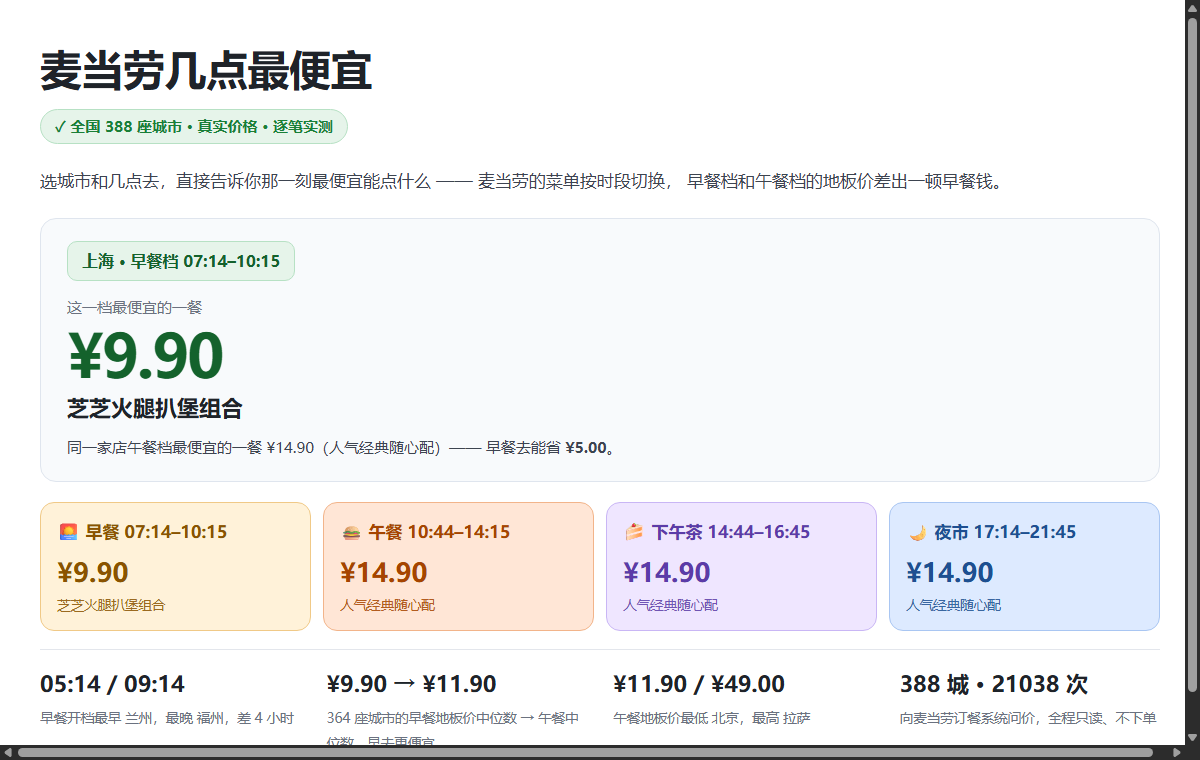
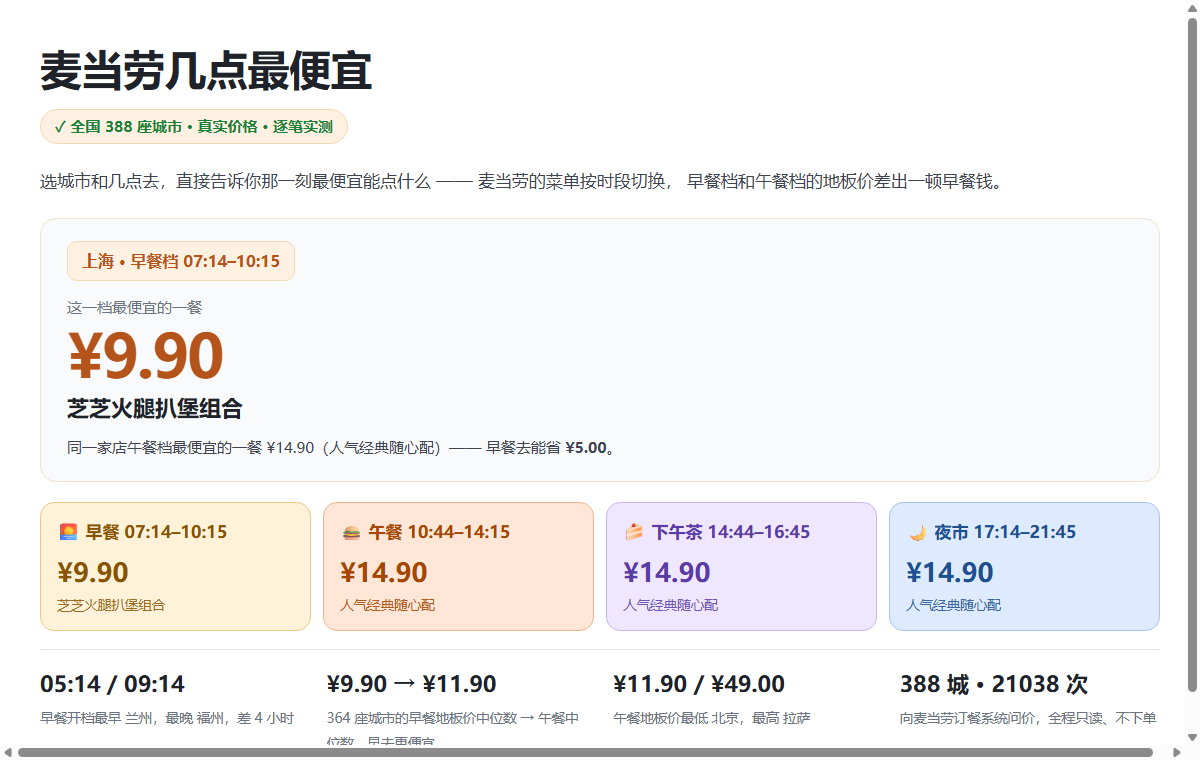
design: 采用「暖奶油」终版配色
- hero 改奶油白渐变+焦糖橙红文字, 钩子/勋章同步换色
- 主题强调色 #C2410C, 价格 hero 奶油金底 + #B4531A 大字
- 深色模式对应「暖黑金」: 深棕 hero + 琥珀字
- 首图卡片与 README 实拍图同步换色; 整页实拍(折叠区全展开)

diff --git a/dist/report.html b/dist/report.html
@@ -5,31 +5,31 @@
 <style>
 *{box-sizing:border-box}
 html{-webkit-text-size-adjust:100%}
-body{margin:0;background:#f6f7f9;color:#1f2329;
+body{margin:0;background:#FBF7F2;color:#1f2329;
  font-family:"PingFang SC","Microsoft YaHei","Hiragino Sans GB","Source Han Sans SC",
    "Noto Sans CJK SC",system-ui,-apple-system,sans-serif;
  font-size:16px;line-height:1.7;padding:20px 14px 40px;
  word-break:break-word;overflow-wrap:break-word}
 .wrap{max-width:820px;margin:0 auto}
 
-/* —— 头部: 黄金3秒钩子 —— */
-.hero{background:linear-gradient(135deg,#E1121F 0%,#C0101A 55%,#A50F18 100%);
- color:#fff;border-radius:18px;padding:26px 22px 22px;margin:0 0 16px;
- box-shadow:0 2px 4px rgba(120,10,16,.18),0 14px 34px rgba(120,10,16,.22)}
-.hero .hook{display:inline-block;background:rgba(255,255,255,.16);border:1px solid rgba(255,255,255,.28);
- color:#FFD75E;font-size:13.5px;font-weight:800;letter-spacing:.4px;padding:5px 12px;
+/* —— 头部: 黄金3秒钩子(暖奶油) —— */
+.hero{background:linear-gradient(135deg,#FFFDF9 0%,#FDF1E3 100%);
+ color:#2B1B12;border-radius:18px;padding:26px 22px 22px;margin:0 0 16px;
+ box-shadow:0 1px 2px rgba(120,80,20,.06),0 10px 26px rgba(120,80,20,.09)}
+.hero .hook{display:inline-block;background:#FFF1E2;border:1px solid #F2D9B6;
+ color:#B4531A;font-size:13.5px;font-weight:800;letter-spacing:.4px;padding:5px 12px;
  border-radius:20px;margin:0 0 12px}
-.hero h1{font-size:34px;line-height:1.25;margin:0 0 10px;color:#fff;letter-spacing:-.4px}
-.hero .hsub{font-size:16px;color:rgba(255,255,255,.92);margin:0 0 16px;line-height:1.65}
-.hero .hsub b{color:#FFD75E}
+.hero h1{font-size:34px;line-height:1.25;margin:0 0 10px;color:#7C1D12;letter-spacing:-.4px}
+.hero .hsub{font-size:16px;color:#5A4638;margin:0 0 16px;line-height:1.65}
+.hero .hsub b{color:#B4531A}
 .hero-stats{display:flex;flex-wrap:wrap;gap:8px}
-.hero-stats .hs{background:rgba(0,0,0,.16);border:1px solid rgba(255,255,255,.2);
- border-radius:10px;padding:7px 12px;font-size:13.5px;color:rgba(255,255,255,.9)}
-.hero-stats .hs b{font-size:17px;color:#FFD75E;font-variant-numeric:tabular-nums;
+.hero-stats .hs{background:#fff;border:1px solid #F0E2CE;
+ border-radius:10px;padding:7px 12px;font-size:13.5px;color:#6B5747}
+.hero-stats .hs b{font-size:17px;color:#C2410C;font-variant-numeric:tabular-nums;
  font-weight:800;margin-right:3px}
 h1{font-size:28px;line-height:1.35;margin:0 0 8px;letter-spacing:-.2px}
 p{margin:0 0 12px}
-a{color:#A50F18}
+a{color:#8C2F0B}
 .lead{font-size:16px;color:#3d4450;margin:0 0 16px}
 .num{font-variant-numeric:tabular-nums;font-feature-settings:"tnum" 1}
 .sub{color:#6b7280;font-size:14px;margin:0}
@@ -49,16 +49,16 @@ select.sel{font:inherit;font-size:16px;padding:9px 12px;border:1px solid #d7dbe3
 .chip{display:inline-block;padding:6px 13px;border:1px solid #d7dbe3;border-radius:20px;
  background:#fff;color:#1f2329;font-size:14.5px;cursor:pointer;line-height:1.5;
  transition:border-color .15s,color .15s,background .15s,transform .15s}
-.chip:hover{border-color:#C4161C;color:#C4161C}
-.chip.on{background:#C4161C;border-color:#C4161C;color:#fff;font-weight:700;transform:scale(1.05)}
+.chip:hover{border-color:#C2410C;color:#C2410C}
+.chip.on{background:#C2410C;border-color:#C2410C;color:#fff;font-weight:700;transform:scale(1.05)}
 .hintline{font-size:13.5px;color:#6b7280;margin:8px 0 0}
 select{font:inherit;font-size:16px;padding:8px 12px;border:1px solid #d7dbe3;border-radius:10px;
  background:#fff;color:#1f2329;max-width:100%;transition:border-color .15s}
-select:focus{border-color:#C4161C;outline:2px solid rgba(196,22,28,.16)}
+select:focus{border-color:#C2410C;outline:2px solid rgba(194,65,12,.14)}
 button.now{font:inherit;font-size:15px;padding:8px 16px;border:1px solid #d7dbe3;
  border-radius:10px;background:#f0f2f5;color:#1f2329;cursor:pointer;
  transition:border-color .15s,color .15s,background .15s}
-button.now:hover{border-color:#C4161C;color:#C4161C;background:#fdeeee}
+button.now:hover{border-color:#C2410C;color:#C2410C;background:#FFF3EA}
 
 /* —— 答案区 —— */
 .state{font-size:15px;font-weight:700;padding:10px 14px;border-radius:10px;margin:0 0 14px}
@@ -66,12 +66,12 @@ button.now:hover{border-color:#C4161C;color:#C4161C;background:#fdeeee}
 .state.gap{background:#fff4ce;color:#8a6100;border:1px solid #f0d999}
 .state.closed{background:#f1f2f5;color:#5b6472;border:1px solid #dfe2e8}
 .big{font-size:14.5px;color:#6b7280;margin:0 0 2px}
-.anshero{background:linear-gradient(135deg,#FFF6DF 0%,#FFFDF6 60%);border:1px solid #F2D77A;
+.anshero{background:linear-gradient(135deg,#FFF8EF 0%,#FFFDFA 70%);border:1px solid #F2D9B6;
  border-radius:14px;padding:14px 16px 12px;margin:2px 0 12px;
- box-shadow:0 1px 2px rgba(180,130,20,.08),0 6px 18px rgba(180,130,20,.10)}
+ box-shadow:0 1px 2px rgba(140,90,20,.07),0 6px 18px rgba(140,90,20,.09)}
 .anshero .ansname{margin-bottom:0}
 .ansprice{font-size:64px;font-weight:800;letter-spacing:-2.5px;line-height:1.05;margin:2px 0 4px;
- color:#C4161C;font-variant-numeric:tabular-nums}
+ color:#B4531A;font-variant-numeric:tabular-nums}
 .pdot{display:inline-block;width:9px;height:9px;border-radius:50%;margin-right:6px;
  vertical-align:middle}
 .ansname{font-size:19px;font-weight:700;margin:0 0 4px}
@@ -88,7 +88,7 @@ button.now:hover{border-color:#C4161C;color:#C4161C;background:#fdeeee}
  transition:width .25s ease-out}
 .cmp .pv{font-variant-numeric:tabular-nums;font-weight:700;white-space:nowrap}
 .cmp .row.cur .nm{color:#1f2329;font-weight:800}
-.cmp .row.cur .pv{color:#C4161C}
+.cmp .row.cur .pv{color:#B4531A}
 .cmp .row:not(.cur){opacity:.62}
 
 /* —— 答案卡切换动画 —— */
@@ -126,25 +126,32 @@ footer{max-width:820px;margin:24px auto 0;color:#8b93a3;font-size:12.5px;
 @media (prefers-color-scheme:dark){
   body{background:#121418;color:#e7eaf0}
   .lead{color:#b9c0cc}
-  a{color:#E37B7B}
+  a{color:#E8936B}
   .sub,.big,.anshint,.more,.hintline,.qlab{color:#9aa3b2}
   .card,.q,details{background:#1b1e24;border-color:#2c313a;box-shadow:none}
   details summary{background:#20242c}
   select.sel,select{background:#22262e;border-color:#3a414c;color:#e7eaf0}
-  select:focus{border-color:#E37B7B;outline-color:rgba(227,123,123,.22)}
+  select:focus{border-color:#E8936B;outline-color:rgba(232,147,107,.22)}
   button.now{background:#262b34;border-color:#3a414c;color:#e7eaf0}
-  button.now:hover{border-color:#E37B7B;color:#E37B7B;background:#262f3d}
+  button.now:hover{border-color:#E8936B;color:#E8936B;background:#262f3d}
   .chip{background:#22262e;border-color:#3a414c;color:#e7eaf0}
-  .chip:hover{border-color:#E37B7B;color:#E37B7B}
-  .chip.on{background:#C4161C;border-color:#C4161C;color:#fff}
+  .chip:hover{border-color:#E8936B;color:#E8936B}
+  .chip.on{background:#C2410C;border-color:#C2410C;color:#fff}
   .state.ok{background:#123322;color:#7fd6a4;border-color:#1f5a3a}
   .state.gap{background:#3a2f10;color:#f0d48a;border-color:#6b5518}
   .state.closed{background:#22262e;color:#9aa3b2;border-color:#3a414c}
-  .anshero{background:linear-gradient(135deg,#2A1E08,#1F1A0C);border-color:#5e4a15;box-shadow:none}
-  .ansprice{color:#FFC72C}
-  .cmp .row.cur .pv{color:#FFC72C}
+  .anshero{background:linear-gradient(135deg,#241A0D,#1C1409);border-color:#5E4318;box-shadow:none}
+  .anshero .big{color:#B9A68E}.anshero .ansname{color:#F0E7DB}
+  .ansprice{color:#F5B45B}
+  .cmp .row.cur .pv{color:#F5B45B}
   .cmp .row.cur .nm{color:#e7eaf0}
-  .hero{background:linear-gradient(135deg,#8E0C14,#6C0A11);box-shadow:none}
+  .hero{background:linear-gradient(135deg,#2E1E0F,#1E1409);box-shadow:none}
+  .hero h1{color:#F7E3C9}
+  .hero .hsub{color:#CBB79C}
+  .hero .hsub b{color:#F5B45B}
+  .hero .hook{background:#3A2712;border-color:#6B4A1F;color:#F5B45B}
+  .hero-stats .hs{background:#2A1D0F;border-color:#4A3418;color:#CBB79C}
+  .hero-stats .hs b{color:#F5B45B}
   .ansline{background:#1a2333;border-color:#2c3d5c}
   ul.can{border-top-color:#2c313a}
   ul.can li{border-bottom-color:#2c313a}

diff --git a/dist/card.html b/dist/card.html
@@ -2,20 +2,20 @@
 <style>
 *{box-sizing:border-box}
 html,body{margin:0;padding:0}
-body{background:#f6f7f9;color:#1f2329;width:1200px;
+body{background:#FBF7F2;color:#1f2329;width:1200px;
  font-family:"PingFang SC","Microsoft YaHei","Hiragino Sans GB","Source Han Sans SC",
   "Noto Sans CJK SC",system-ui,-apple-system,sans-serif;
  font-size:16px;line-height:1.65}
 .card{width:1200px;background:#fff;padding:34px 40px 30px}
 h1{font-size:42px;margin:0 0 6px;letter-spacing:-.5px}
 .tag{display:inline-block;font-size:15px;font-weight:700;color:#1a7f37;
- background:#e6f4ea;border:1px solid #b7e1c4;border-radius:20px;padding:4px 14px;margin:0 0 22px}
+ background:#FFF1E2;border:1px solid #F2D9B6;border-radius:20px;padding:4px 14px;margin:0 0 22px}
 .lead{font-size:17px;color:#3d4450;margin:0 0 24px}
-.ans{background:#f8fafc;border:1px solid #dfe5ee;border-radius:16px;padding:22px 26px;margin:0 0 20px}
-.state{display:inline-block;font-size:16px;font-weight:700;color:#14622c;background:#e6f4ea;
- border:1px solid #b7e1c4;border-radius:10px;padding:6px 14px;margin:0 0 14px}
+.ans{background:#f8fafc;border:1px solid #F0E2CE;border-radius:16px;padding:22px 26px;margin:0 0 20px}
+.state{display:inline-block;font-size:16px;font-weight:700;color:#B4531A;background:#FFF1E2;
+ border:1px solid #F2D9B6;border-radius:10px;padding:6px 14px;margin:0 0 14px}
 .big{font-size:15px;color:#6b7280;margin:0 0 2px}
-.price{font-size:60px;font-weight:800;letter-spacing:-2px;line-height:1.1;margin:0;color:#14622c}
+.price{font-size:60px;font-weight:800;letter-spacing:-2px;line-height:1.1;margin:0;color:#B4531A}
 .name{font-size:22px;font-weight:700;margin:2px 0 8px}
 .note{font-size:15px;color:#3d4450;margin:8px 0 0}
 .row{display:flex;gap:12px;margin:0 0 18px}

diff --git a/src/render_report.py b/src/render_report.py
@@ -35,31 +35,31 @@ PERIOD_ICON = {"早餐": "🌅", "午餐": "🍔", "下午茶": "🍰", "夜市"
 CSS = """
 *{box-sizing:border-box}
 html{-webkit-text-size-adjust:100%}
-body{margin:0;background:#f6f7f9;color:#1f2329;
+body{margin:0;background:#FBF7F2;color:#1f2329;
  font-family:"PingFang SC","Microsoft YaHei","Hiragino Sans GB","Source Han Sans SC",
    "Noto Sans CJK SC",system-ui,-apple-system,sans-serif;
  font-size:16px;line-height:1.7;padding:20px 14px 40px;
  word-break:break-word;overflow-wrap:break-word}
 .wrap{max-width:820px;margin:0 auto}
 
-/* —— 头部: 黄金3秒钩子 —— */
-.hero{background:linear-gradient(135deg,#E1121F 0%,#C0101A 55%,#A50F18 100%);
- color:#fff;border-radius:18px;padding:26px 22px 22px;margin:0 0 16px;
- box-shadow:0 2px 4px rgba(120,10,16,.18),0 14px 34px rgba(120,10,16,.22)}
-.hero .hook{display:inline-block;background:rgba(255,255,255,.16);border:1px solid rgba(255,255,255,.28);
- color:#FFD75E;font-size:13.5px;font-weight:800;letter-spacing:.4px;padding:5px 12px;
+/* —— 头部: 黄金3秒钩子(暖奶油) —— */
+.hero{background:linear-gradient(135deg,#FFFDF9 0%,#FDF1E3 100%);
+ color:#2B1B12;border-radius:18px;padding:26px 22px 22px;margin:0 0 16px;
+ box-shadow:0 1px 2px rgba(120,80,20,.06),0 10px 26px rgba(120,80,20,.09)}
+.hero .hook{display:inline-block;background:#FFF1E2;border:1px solid #F2D9B6;
+ color:#B4531A;font-size:13.5px;font-weight:800;letter-spacing:.4px;padding:5px 12px;
  border-radius:20px;margin:0 0 12px}
-.hero h1{font-size:34px;line-height:1.25;margin:0 0 10px;color:#fff;letter-spacing:-.4px}
-.hero .hsub{font-size:16px;color:rgba(255,255,255,.92);margin:0 0 16px;line-height:1.65}
-.hero .hsub b{color:#FFD75E}
+.hero h1{font-size:34px;line-height:1.25;margin:0 0 10px;color:#7C1D12;letter-spacing:-.4px}
+.hero .hsub{font-size:16px;color:#5A4638;margin:0 0 16px;line-height:1.65}
+.hero .hsub b{color:#B4531A}
 .hero-stats{display:flex;flex-wrap:wrap;gap:8px}
-.hero-stats .hs{background:rgba(0,0,0,.16);border:1px solid rgba(255,255,255,.2);
- border-radius:10px;padding:7px 12px;font-size:13.5px;color:rgba(255,255,255,.9)}
-.hero-stats .hs b{font-size:17px;color:#FFD75E;font-variant-numeric:tabular-nums;
+.hero-stats .hs{background:#fff;border:1px solid #F0E2CE;
+ border-radius:10px;padding:7px 12px;font-size:13.5px;color:#6B5747}
+.hero-stats .hs b{font-size:17px;color:#C2410C;font-variant-numeric:tabular-nums;
  font-weight:800;margin-right:3px}
 h1{font-size:28px;line-height:1.35;margin:0 0 8px;letter-spacing:-.2px}
 p{margin:0 0 12px}
-a{color:#A50F18}
+a{color:#8C2F0B}
 .lead{font-size:16px;color:#3d4450;margin:0 0 16px}
 .num{font-variant-numeric:tabular-nums;font-feature-settings:"tnum" 1}
 .sub{color:#6b7280;font-size:14px;margin:0}
@@ -79,16 +79,16 @@ select.sel{font:inherit;font-size:16px;padding:9px 12px;border:1px solid #d7dbe3
 .chip{display:inline-block;padding:6px 13px;border:1px solid #d7dbe3;border-radius:20px;
  background:#fff;color:#1f2329;font-size:14.5px;cursor:pointer;line-height:1.5;
  transition:border-color .15s,color .15s,background .15s,transform .15s}
-.chip:hover{border-color:#C4161C;color:#C4161C}
-.chip.on{background:#C4161C;border-color:#C4161C;color:#fff;font-weight:700;transform:scale(1.05)}
+.chip:hover{border-color:#C2410C;color:#C2410C}
+.chip.on{background:#C2410C;border-color:#C2410C;color:#fff;font-weight:700;transform:scale(1.05)}
 .hintline{font-size:13.5px;color:#6b7280;margin:8px 0 0}
 select{font:inherit;font-size:16px;padding:8px 12px;border:1px solid #d7dbe3;border-radius:10px;
  background:#fff;color:#1f2329;max-width:100%;transition:border-color .15s}
-select:focus{border-color:#C4161C;outline:2px solid rgba(196,22,28,.16)}
+select:focus{border-color:#C2410C;outline:2px solid rgba(194,65,12,.14)}
 button.now{font:inherit;font-size:15px;padding:8px 16px;border:1px solid #d7dbe3;
  border-radius:10px;background:#f0f2f5;color:#1f2329;cursor:pointer;
  transition:border-color .15s,color .15s,background .15s}
-button.now:hover{border-color:#C4161C;color:#C4161C;background:#fdeeee}
+button.now:hover{border-color:#C2410C;color:#C2410C;background:#FFF3EA}
 
 /* —— 答案区 —— */
 .state{font-size:15px;font-weight:700;padding:10px 14px;border-radius:10px;margin:0 0 14px}
@@ -96,12 +96,12 @@ button.now:hover{border-color:#C4161C;color:#C4161C;background:#fdeeee}
 .state.gap{background:#fff4ce;color:#8a6100;border:1px solid #f0d999}
 .state.closed{background:#f1f2f5;color:#5b6472;border:1px solid #dfe2e8}
 .big{font-size:14.5px;color:#6b7280;margin:0 0 2px}
-.anshero{background:linear-gradient(135deg,#FFF6DF 0%,#FFFDF6 60%);border:1px solid #F2D77A;
+.anshero{background:linear-gradient(135deg,#FFF8EF 0%,#FFFDFA 70%);border:1px solid #F2D9B6;
  border-radius:14px;padding:14px 16px 12px;margin:2px 0 12px;
- box-shadow:0 1px 2px rgba(180,130,20,.08),0 6px 18px rgba(180,130,20,.10)}
+ box-shadow:0 1px 2px rgba(140,90,20,.07),0 6px 18px rgba(140,90,20,.09)}
 .anshero .ansname{margin-bottom:0}
 .ansprice{font-size:64px;font-weight:800;letter-spacing:-2.5px;line-height:1.05;margin:2px 0 4px;
- color:#C4161C;font-variant-numeric:tabular-nums}
+ color:#B4531A;font-variant-numeric:tabular-nums}
 .pdot{display:inline-block;width:9px;height:9px;border-radius:50%;margin-right:6px;
  vertical-align:middle}
 .ansname{font-size:19px;font-weight:700;margin:0 0 4px}
@@ -118,7 +118,7 @@ button.now:hover{border-color:#C4161C;color:#C4161C;background:#fdeeee}
  transition:width .25s ease-out}
 .cmp .pv{font-variant-numeric:tabular-nums;font-weight:700;white-space:nowrap}
 .cmp .row.cur .nm{color:#1f2329;font-weight:800}
-.cmp .row.cur .pv{color:#C4161C}
+.cmp .row.cur .pv{color:#B4531A}
 .cmp .row:not(.cur){opacity:.62}
 
 /* —— 答案卡切换动画 —— */
@@ -156,25 +156,32 @@ footer{max-width:820px;margin:24px auto 0;color:#8b93a3;font-size:12.5px;
 @media (prefers-color-scheme:dark){
   body{background:#121418;color:#e7eaf0}
   .lead{color:#b9c0cc}
-  a{color:#E37B7B}
+  a{color:#E8936B}
   .sub,.big,.anshint,.more,.hintline,.qlab{color:#9aa3b2}
   .card,.q,details{background:#1b1e24;border-color:#2c313a;box-shadow:none}
   details summary{background:#20242c}
   select.sel,select{background:#22262e;border-color:#3a414c;color:#e7eaf0}
-  select:focus{border-color:#E37B7B;outline-color:rgba(227,123,123,.22)}
+  select:focus{border-color:#E8936B;outline-color:rgba(232,147,107,.22)}
   button.now{background:#262b34;border-color:#3a414c;color:#e7eaf0}
-  button.now:hover{border-color:#E37B7B;color:#E37B7B;background:#262f3d}
+  button.now:hover{border-color:#E8936B;color:#E8936B;background:#262f3d}
   .chip{background:#22262e;border-color:#3a414c;color:#e7eaf0}
-  .chip:hover{border-color:#E37B7B;color:#E37B7B}
-  .chip.on{background:#C4161C;border-color:#C4161C;color:#fff}
+  .chip:hover{border-color:#E8936B;color:#E8936B}
+  .chip.on{background:#C2410C;border-color:#C2410C;color:#fff}
   .state.ok{background:#123322;color:#7fd6a4;border-color:#1f5a3a}
   .state.gap{background:#3a2f10;color:#f0d48a;border-color:#6b5518}
   .state.closed{background:#22262e;color:#9aa3b2;border-color:#3a414c}
-  .anshero{background:linear-gradient(135deg,#2A1E08,#1F1A0C);border-color:#5e4a15;box-shadow:none}
-  .ansprice{color:#FFC72C}
-  .cmp .row.cur .pv{color:#FFC72C}
+  .anshero{background:linear-gradient(135deg,#241A0D,#1C1409);border-color:#5E4318;box-shadow:none}
+  .anshero .big{color:#B9A68E}.anshero .ansname{color:#F0E7DB}
+  .ansprice{color:#F5B45B}
+  .cmp .row.cur .pv{color:#F5B45B}
   .cmp .row.cur .nm{color:#e7eaf0}
-  .hero{background:linear-gradient(135deg,#8E0C14,#6C0A11);box-shadow:none}
+  .hero{background:linear-gradient(135deg,#2E1E0F,#1E1409);box-shadow:none}
+  .hero h1{color:#F7E3C9}
+  .hero .hsub{color:#CBB79C}
+  .hero .hsub b{color:#F5B45B}
+  .hero .hook{background:#3A2712;border-color:#6B4A1F;color:#F5B45B}
+  .hero-stats .hs{background:#2A1D0F;border-color:#4A3418;color:#CBB79C}
+  .hero-stats .hs b{color:#F5B45B}
   .ansline{background:#1a2333;border-color:#2c3d5c}
   ul.can{border-top-color:#2c313a}
   ul.can li{border-bottom-color:#2c313a}

diff --git a/src/render_card.py b/src/render_card.py
@@ -28,20 +28,20 @@ SAMPLE_CITY = "上海"
 CSS = """
 *{box-sizing:border-box}
 html,body{margin:0;padding:0}
-body{background:#f6f7f9;color:#1f2329;width:1200px;
+body{background:#FBF7F2;color:#1f2329;width:1200px;
  font-family:"PingFang SC","Microsoft YaHei","Hiragino Sans GB","Source Han Sans SC",
   "Noto Sans CJK SC",system-ui,-apple-system,sans-serif;
  font-size:16px;line-height:1.65}
 .card{width:1200px;background:#fff;padding:34px 40px 30px}
 h1{font-size:42px;margin:0 0 6px;letter-spacing:-.5px}
 .tag{display:inline-block;font-size:15px;font-weight:700;color:#1a7f37;
- background:#e6f4ea;border:1px solid #b7e1c4;border-radius:20px;padding:4px 14px;margin:0 0 22px}
+ background:#FFF1E2;border:1px solid #F2D9B6;border-radius:20px;padding:4px 14px;margin:0 0 22px}
 .lead{font-size:17px;color:#3d4450;margin:0 0 24px}
-.ans{background:#f8fafc;border:1px solid #dfe5ee;border-radius:16px;padding:22px 26px;margin:0 0 20px}
-.state{display:inline-block;font-size:16px;font-weight:700;color:#14622c;background:#e6f4ea;
- border:1px solid #b7e1c4;border-radius:10px;padding:6px 14px;margin:0 0 14px}
+.ans{background:#f8fafc;border:1px solid #F0E2CE;border-radius:16px;padding:22px 26px;margin:0 0 20px}
+.state{display:inline-block;font-size:16px;font-weight:700;color:#B4531A;background:#FFF1E2;
+ border:1px solid #F2D9B6;border-radius:10px;padding:6px 14px;margin:0 0 14px}
 .big{font-size:15px;color:#6b7280;margin:0 0 2px}
-.price{font-size:60px;font-weight:800;letter-spacing:-2px;line-height:1.1;margin:0;color:#14622c}
+.price{font-size:60px;font-weight:800;letter-spacing:-2px;line-height:1.1;margin:0;color:#B4531A}
 .name{font-size:22px;font-weight:700;margin:2px 0 8px}
 .note{font-size:15px;color:#3d4450;margin:8px 0 0}
 .row{display:flex;gap:12px;margin:0 0 18px}
